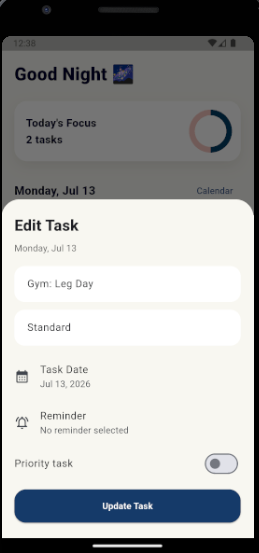
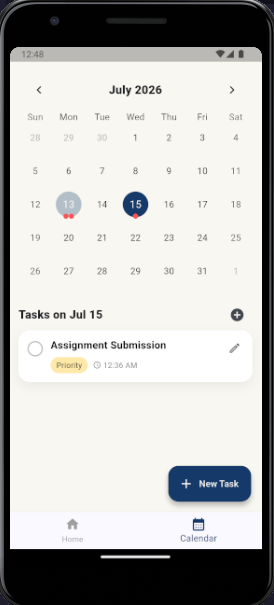
ReadmeUpdate

diff --git a/README.md b/README.md
@@ -85,9 +85,9 @@ Tasks are filtered by date. The home screen only shows today’s tasks, while th
 
 ![Home Screen](image.png)
 
-![Add Task/Edit Task](image-2.png)
+![Add Task/Edit Task](image-1.png)
 
-![Calendar Screen](image-1.png)
+![Calendar Screen](image-2.png)
 
 ---
 